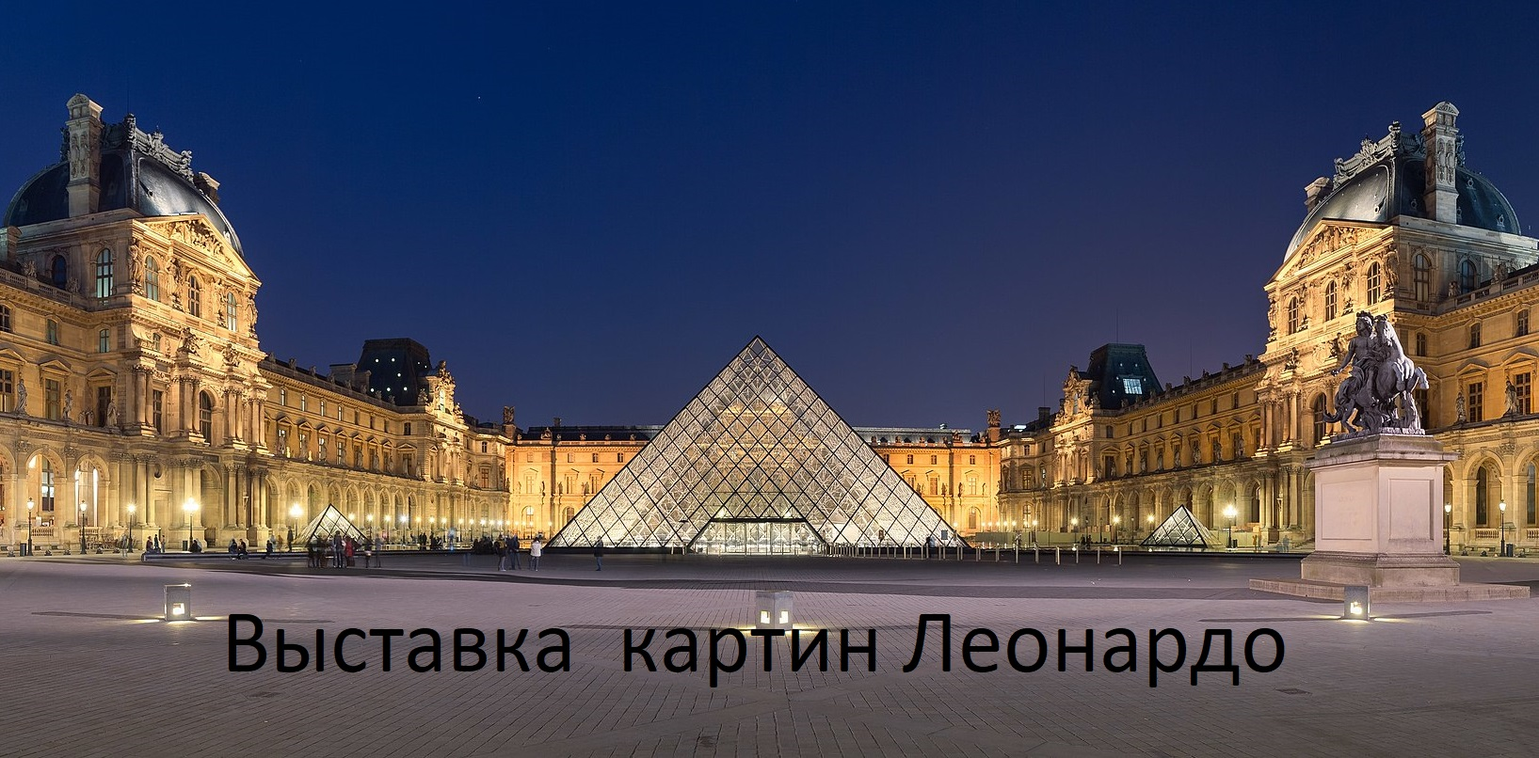
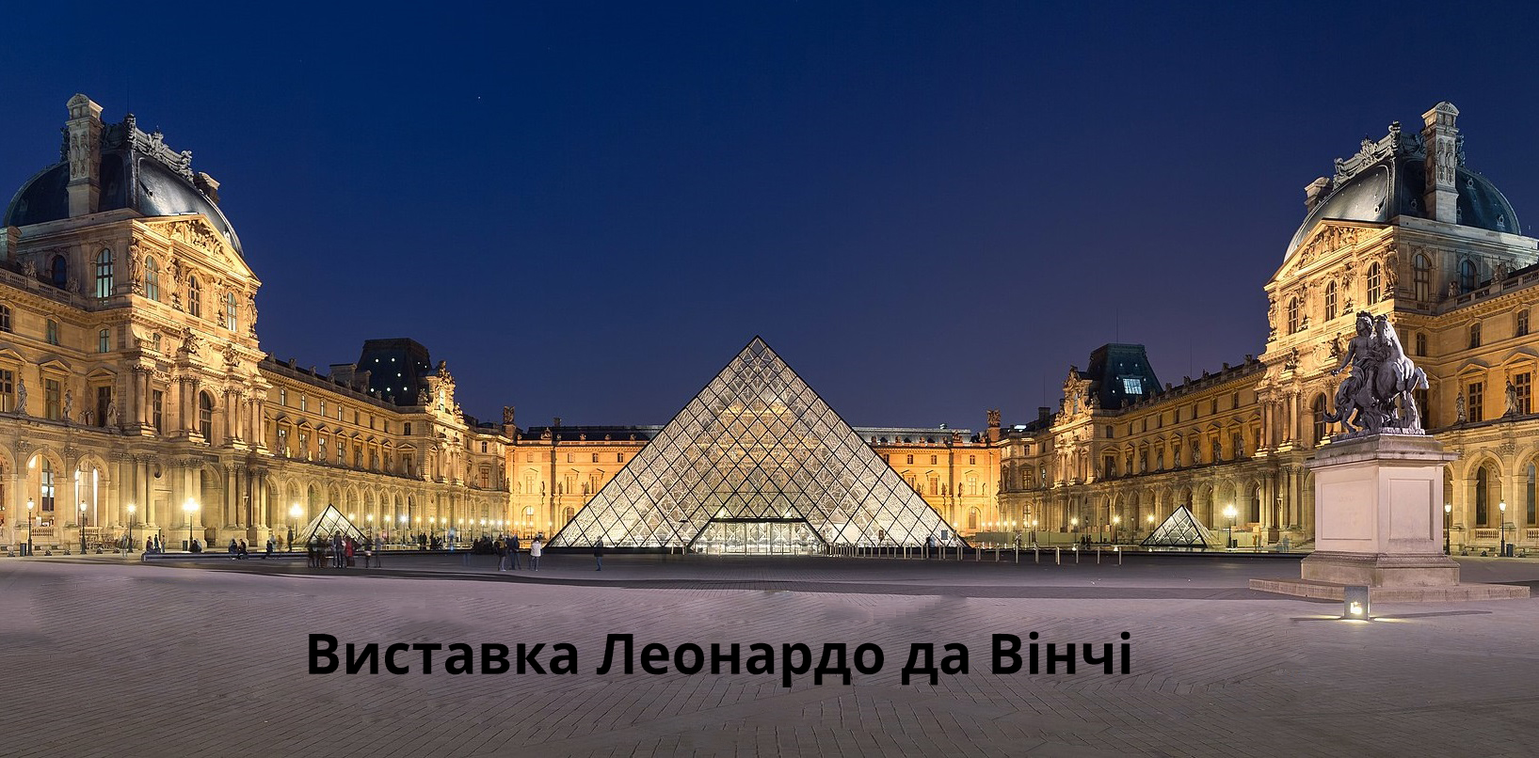
fix and translate famous-pictures page

Changed region(s): [[0.0312, 0.7444, 0.8422, 0.9615]]

diff --git a/index.html b/index.html
@@ -113,7 +113,7 @@
             <div class="chronology">
 
                 <ul class="chronology-paintings">
-                    <li>"Благовіщення" (1472-5) Вважається одгою з ранішних картин Леонардо да Винчі.</li>
+                    <li>"Благовіщення" (1472-5) Вважається одною з ранішних картин Леонардо да Винчі.</li>
                     <li>"Мадонна з гвоздикою" (1473)</li>
                     <li>"Портрет Джиневри де Бенчі" (1474-6)</li>
                     <li>"Хрещення Христа" (1475-1478)</li>
@@ -144,64 +144,65 @@
         </div>
         <div id="museums">
             <div class="museum-exhibitions ">
-                <div class="franch-museum ">
-                    <div class="museum-title ">Выставка картин в Лувре</div>
-                    <p class="museum-description ">С 24 октября 2019 года Лувр открыл для посетителей музея крупнейшую в истории выставку посвещенную работам Леонардо да Винчи. Полотна этих шедевров были переданы специально для этой выставки из Италии, Англии, России и США. С этих
-                        пор Лувр хранит у себя пять полотен и 22 рисунка величайшего творца да Винчи. Лувр по праву теперь считается единственным музеем, который хранит такое количество шелевром величайшего да Винчи. В выставке представлено 160 произведений,
-                        в том числе 11 картин и более 70 рисунка и рисунков, мануфактур, скульптур и предметов искусства.</p>
+                <div class="museum-title ">Виставка картин у Луврі</div>
+                <div class="franch-museum">
+                    <div>
+                        <p class="museum-description">24 жовтня 2019 року Лувр відкрив для відвідувачів музею найбільшу в історії виставку, присвячену працям видатного Леонардо да Вінчі. Експонати бути зібрані з різних куточків світу та привезені до Парижа спеціально для відкриття
+                            цієї виставки. Поціновувачі мистецтва називають відкриття цієї виставки – одною з найбільш значущих подій у житті Лувра за останні 10 років. З дня відкриття виставки Лувр став домівкою для 5-ти полотен та 22-х малюнків величного
+                            да Вінчі. Також у виставці представлено 160 робіт, у тому числі 11 картин та понад 70 малюнків, мануфактур, скульптур та предметів мистецтва. Лувр вважається єдиним музеєм, який зберігає найбільшу кількість шедеврів талановитого
+                            Леонардо да Вінчі.
+
+                        </p>
+                        <a href="https://www.radiosvoboda.org/a/news-da-vinci-exsibition-in-paris/30235434.html">Цікава стаття про цю виставку</a>
+                    </div>
                     <img class="luvr " src="img/luvr-exhibition.jpg " alt="Luvr ">
-                    <a href="https://www.dw.com/ru/%D0%B4%D0%B0-%D0%B2%D0%B8%D0%BD%D1%87%D0%B8-%D0%B2-%D0%BB%D1%83%D0%B2%D1%80%D0%B5-%D0%BA%D0%B0%D0%BA-%D0%B8%D1%81%D0%BA%D0%B0%D0%BB%D0%B8-%D0%BA%D0%B0%D1%80%D1%82%D0%B8%D0%BD%D1%8B-%D0%B4%D0%BB%D1%8F-%D0%B2%D1%8B%D1%81%D1%82%D0%B0%D0%B2%D0%BA%D0%B8-%D0%B3%D0%BE%D0%B4%D0%B0/a-50972542 ">Полная статья про эту выставку</a>
+
                 </div>
-                <div class="russian-museum ">
-                    <div class="museum-title ">Выставка картин в Эрмитаже</div>
-                    <p class="museum-description ">Великие произведения Леонардо да Винчи, которых около полтора десятка, хранятся по всему миру. Для Эрмитажа очень ценно то, что два шедевра этого мастера хранятся в ихнем музее. Картины имеют схожий сюжет - Богородицы с младенцем Иисусом.
-                        Называются они - "Мадонна Бенуа " и "Мадонна Литта ". Первой картине известность принесло семейство Бенуа, которое и продало этот шедевр Эрмитажу. Вторая же картина получила свое название от прежних владельцев итальянских графов
-                        Литта. Выставка имеет большой успех.
-                    </p>
-                    <img class="ermitag " src="img/ermitag-exhibition.jpg " alt=" ">
-                    <a href="http://hermitage-guide.com/guidebook/%D0%B7%D0%B0%D0%BB-%D0%BB%D0%B5%D0%BE%D0%BD%D0%B0%D1%80%D0%B4%D0%BE-%D0%B4%D0%B0-%D0%B2%D0%B8%D0%BD%D1%87%D0%B8/ ">Полная статья про эту выставку</a>
-                </div>
+
             </div>
         </div>
         <div id="famous-pictures">
-            <div class="famous-pictures-title">Известные картины художника</div>
+            <div class="famous-pictures-title">Відомі картини митця</div>
             <div class="four-pictures">
                 <div class="first-two-pictures">
                     <div class="first-picture">
                         <div class="first-picture-text">
                             <div class="first-picture-description">
-                                <div class="first-picture-title">1. Мона Лиза <br> "Портрет госпожи Лизи дель Джокондо "</div>
-                                <p>Самая известная картина легендарного Леонардо была написана в 1515 году. Большинство искуствоведов полагают, что на картине нарисована Лиза Герардини - любимая жена продавца шёлка - Франческо дель Джокондо. На полотне мы
-                                    видим женщину в тёмной одежде, сидящую в кресле, сложив свои руки вместе. </p>
+                                <div class="first-picture-title">1. "Мона Ліза" ("Джокконда")<br> італ. Ritratto di Monna Lisa del Giocondo</div>
+                                <p>Найвідоміша картина легендарного Леонардо була написана у 1515 році. Більшість мистецтвознавців вважають, що на картині намальована Ліза Герардіні – кохана дружина продавця шовку – Франческо дель Джокондо. На полотні бачимо
+                                    жінку в темному одязі, що сидить у кріслі, склавши свої руки разом. </p>
                             </div>
-                            <img src="img/1.jpg" alt=" ">
+                            <img src="img/1.jpg" alt="">
                         </div>
-                        <p class="first-picture-text2 ">Портрет Мони Лизы можно назвать прекрастным примером портретного жанра Высокого Ренессанса. Улыбка этой женщины вошла в историю, как самая большая загадка этой картины.</p>
+                        <p class="first-picture-text2">Портрет Мони Лізи можна назвати чудовим прикладом портретного жанру Високого Ренесансу. Посмішка цієї жінки увійшла в історію як найбільша загадка цієї картини.</p>
 
                     </div>
                     <div class="second-picture">
                         <div class="second-picture-description">
-                            <div class="second-picture-title">2. Тайная вечеря
+                            <div class="second-picture-title">2. Таємна вечеря
                                 <img src="img/2.jpg" alt=" ">
-                                <p>Всемирно-известная фреска была создана художником в 1495—1498 года в доминиканском монастыре Святой Марии в Милане. Размеры фрески — примерно 460×880 см. На ней изображена последняя трапеза Иисуса со своими учениками.
+                                <p>Всесвітньо відома фреска була створена художником у 1494—1498 роках у домініканському монастирі Святої Марії в Мілані. Розміри фрески — приблизно 460×880 см. На ній зображено останню трапезу Ісуса зі своїми учнями.
                                 </p>
                             </div>
 
                         </div>
-                        <p class="text-description ">Роспись была заказана Леонардо герцогом Лодовико Сфорца и его супругой Беатриче д’Эсте. Работа над этим шедевром длилась с перерывами, почти четыри года. Леонардо использовал своеобразную технику, сочетая масло с темперой. В то
-                            же время отказался делать работу по классической технике влажной штуркатурки, что и продлило время изготовления фрески. "Тайная вечеря " является одной из самых сложных, по психологической композиции, работ автора.</p>
+                        <p class="text-description ">Розпис був замовлений Леонардо герцогом Лодовіко Сфорца та його дружиною Беатріче д'Есте. Робота над цим шедевром тривала з перервами майже чотири роки. Леонардо використав своєрідну техніку, поєднуючи олію з темперою. Водночас
+                            відмовився виконувати роботу у класичній техніці вологої штуркатурки, що й подовжило час виготовлення фрески. "Таємна вечеря" є однією з найскладніших, з психологічної композиції, робіт автора.</p>
                     </div>
                 </div>
                 <div class="second-two-picture">
                     <div class="third-picture">
                         <div class="third-picture-description">
-                            <div class="third-picture-title">3. Благовещение
+                            <div class="third-picture-title">3. Благовіщення <br> італ. Annunciazione
                                 <img src="img/3.jpg" alt=" ">
-                                <p>Одна из первых работ талантливого да Винчи, созданная им предположительно в 1472 - 1475 годах. В это время Леонардо был еще учеником. </p>
+                                <p>
+                                    Одна з перших робіт талановитого да Вінчі, створена ним приблизно в 1472 - 1475 роках. В цей час Леонардо був ще учнем.
+                                </p>
                             </div>
 
                         </div>
-                        <p class="second-text-description">Картина изображает, как архангел Гавриил повествует Марии о рождении ее сына Иисуса. На переднем плане мы видим архангела Гавриила, держащего белую лилию в левой руке, а правой - он благословляет Марию, которая сидит у своего дома.
+                        <p class="second-text-description">Картина зображує, як архангел Гавриїл сповіщає Марію про народження її сина Ісуса. На передньому плані ми бачимо архангела Гавриїла, який тримає білу лілію в лівій руці, а правою – він дає благословення Марії, яка сидить біля свого
+                            будинку.
 
                         </p>
                     </div>
@@ -209,9 +210,9 @@
                     <div class="four-picture">
 
                         <div class="four-picture-description">
-                            <div class="four-picture-title">4. Крещение Христа
-                                <p>Ранняя картина художника, которая была написана при помощи его учителя А.Веррокьо в 1475 году. Картина была предназначена для бенедиктинского монастыря. На данный момент домом этой картины является галерея Уффици во Флоренции.
-                                    В центре картины размещен Иисус Христос, который приготовил свои ладони для молитвы. По правую руку стоит Иоанн Креститель с жезлом-посохом в виде длинноватого узкого креста.
+                            <div class="four-picture-title">4. Хрещення Христа
+                                <p>Рання картина художника, написана з допомогою його вчителя А.Веррокьо в 1475 році. Картина була створена для бенедиктинського монастиря. На даний час картина знаходиться у галереї Уффіці у Флоренції. У центрі картини розміщено
+                                    Ісуса Христа, який приготував свої долоні для молитви. Праворуч стоїть Іоанн Хреститель з жезлом-посохом у виді довгого тонкого хреста. Більша частина картини була написана, звичайно, його вчителем Вероккьо.
                                 </p>
                             </div>
                             <img class="fourth-picture" src="img/4.jpg" alt=" ">
@@ -219,8 +220,8 @@
 
 
                     </div>
-                    <p class="four-picture-text">Большая часть картины естественно была написана Веррокьо. Леонардо написал ангела со светлыми волосами на переднем плане. Также современники припысывают к рукам да Винчи часть пейзажа на заднем плане. Хоть Леонардо был юный, он много
-                        внимания уделял композиции и прислущивался к советам своего учителя. Именно благодаря молодому да Винчи эта картина имеет такую известность.</p>
+                    <p class="four-picture-text">Леонардо написав ангела зі світлим волоссям на передньому плані. Також сучасники приписують до рук да Вінчі частину краєвиду на задньому плані. Хоча Леонардо був юний, він багато уваги приділяв композиції та прислухався до порад свого
+                        вчителя. Саме завдяки молодому да Вінчі ця картина має таку популярність.</p>
                 </div>
 
             </div>

diff --git a/style/style.css b/style/style.css
@@ -373,12 +373,14 @@
                                         #museums {
                                             margin-top: 130px;
                                             margin-left: 90px;
-                                            margin-right: 110px;
+                                            margin-right: 100px;
                                         }
                                         
                                         .museum-exhibitions {
                                             display: flex;
+                                            flex-direction: column;
                                             color: #7e8dc6;
+                                            font-weight: bold;
                                         }
                                         
                                         .museum-exhibitions img {
@@ -389,11 +391,7 @@
                                         
                                         .luvr {
                                             margin-top: 21px;
-                                        }
-                                        
-                                        .ermitag {
-                                            margin-left: 17px;
-                                            margin-top: 21px;
+                                            margin-left: 50px;
                                         }
                                         
                                         .museum-title {
@@ -406,36 +404,21 @@
                                             font-weight: bold;
                                             font-size: 16px;
                                             width: 590px;
+                                            line-height: 25px;
+                                            margin-right: 10px;
                                         }
                                         
                                         .franch-museum {
                                             display: flex;
-                                            flex-direction: column;
+                                            margin-top: 20px;
                                         }
                                         
                                         .franch-museum img {
                                             width: 580px;
                                         }
                                         
-                                        .franch-museum>a {
-                                            margin-top: 10px;
-                                            margin-left: 20px;
-                                            font-weight: bold;
-                                            color: #551A8B;
-                                            font-size: 15px;
-                                        }
-                                        
-                                        .russian-museum {
+                                        .museum-exhibitions a {
                                             display: flex;
-                                            flex-direction: column;
-                                            margin-left: 50px;
-                                        }
-                                        
-                                        .russian-museum>a {
-                                            margin-top: 10px;
-                                            margin-left: 20px;
-                                            color: #551A8B;
-                                            font-weight: bold;
                                             font-size: 15px;
                                         }
                                         /*famous-pictures page*/
@@ -544,7 +527,7 @@
                                         }
                                         
                                         .third-picture-title img {
-                                            margin-top: 20px;
+                                            margin-top: 15px;
                                         }
                                         
                                         .third-picture-title {
